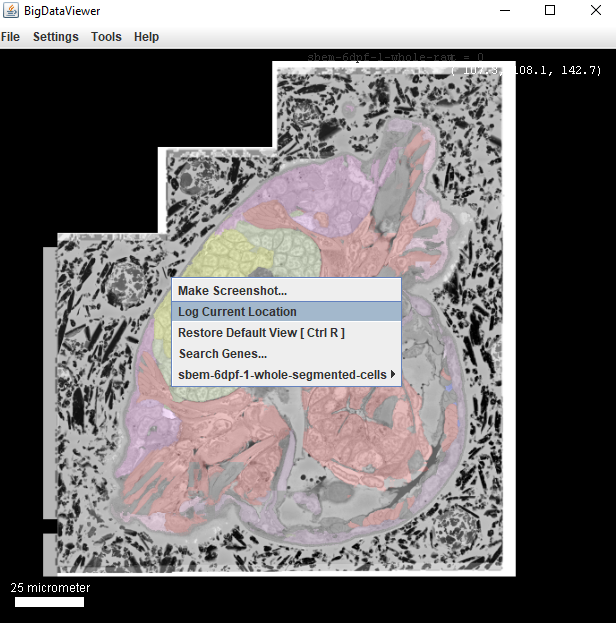
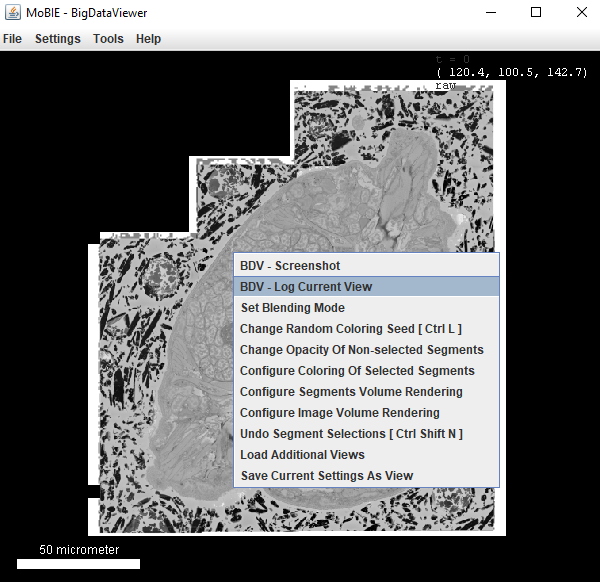
update views and locations tutorial

diff --git a/tutorials/views_and_locations.md b/tutorials/views_and_locations.md
@@ -1,57 +1,70 @@
-# Bookmarks and locations
-
-<img width="500" alt="image" src="./tutorial_images/bookmarkLocation.png"> 
+# Views and locations
 
 ## Locations
 
 The viewer (BigDataViewer) places all images within the same physical coordinate system.
 The current coordinates of your mouse are displayed in the top right corner of the window.
 
-### Saving a location
+### Saving a location / orientation
 
-To save your current location, you can right click in the viewer and select 
-**log current location**
+To save your current location and orientation, you can right click in the viewer and select
+**BDV - Log Current View**
 
-<img width="500" alt="image" src="./tutorial_images/logLocation.png"> 
+<img width="500" alt="image" src="./tutorial_images/logLocation.png">
 
 This will print a series of values to the **Log window** like so:
 ```
-Position:
-(105.89281976297173,89.52964460425457,142.70000000000002)
-View:
-2.796828718166384, 0.0, 0.0, -124.16407936069606, 0.0, 2.796828718166384, 0.0, -74.39908115640918, 0.0, 0.0, 2.796828718166384, -399.107458082343
-Normalised view:
-n0.00448209730475382,n0.0,n0.0,n-0.4746219220523975,n0.0,n0.00448209730475382,n0.0,n-0.40128057877629675,n0.0,n0.0,n0.00448209730475382,n-0.6395952853883702
+# Current view
+To restore the view, any of below lines can be pasted into the 'location' text field.
+To share views with other people we recommend 'normalizedAffine'.
+{"position":[147.8058920398392,127.96038933601736,142.7000000000002],"timepoint":0}
+{"affineTransform":[2.4773774193548403,0.0,0.0,-62.17097938709691,0.0,2.4773774193548403,0.0,-48.00617911290328,0.0,0.0,2.4773774193548403,-353.52175774193614],"timepoint":0}
+{"normalizedAffine":[0.004074633913412566,0.0,0.0,-0.6022549003077251,0.0,0.004074633913412566,0.0,-0.521391741962012,0.0,0.0,0.004074633913412566,-0.5814502594439739],"timepoint":0}
+{"normalVector":[0.0,0.0,1.0],"timepoint":0}
 ```
 
-- **Position** Location of where you clicked (x, y, z) in physical coordinates e.g. for the Platybrowser dataset, this is in micrometer
-- **View** Orientation of your view - the 12 comma separated values here, are the affine transformation of this current view
-- **Normalised View** Orientation of your view, normalised to window size.
+- **position** Location (x, y, z) in physical coordinates e.g. for the
+Platybrowser dataset, this is in micrometer
+- **affineTransform** Orientation of the viewer - the 12 comma separated values
+here, are the affine transformation of this current view
+- **normalizedAffine** Orientation of the viewer, normalised to window size.
+- **normalVector** The normal vector to the plane you are currently viewing.
 
-### Moving to a location
+### Moving to a location / orientation
 
-To move to a position, you simply copy these saved numbers (either the position, view
-or normalised view) into the **location** field and click **move**.
+To move to a position, you simply copy one of these printed lines into the **location** field and click **move**.
 
-- **Position** Using the (x, y, z) position will move your viewer to that location, but not change its current orientation
-- **View**  Using the 12 view values, will move your viewer to that location, and change the orientation to match. **Note:**
-This is dependent on the size of your viewer window i.e. if your window is not the same size as when you saved the location, the result will be different.
-- **Normalised View** Using the 12 normalised view values, will move your viewer to that location, and change the orientation to match. It is normalised to the
-size of your viewer window, and so should give very similar results independent of your current window size.
+- **position** Using the (x, y, z) position will move your viewer to that
+location, but not change its current orientation
+- **affineTransform**  Using this affine transform, will move your viewer to
+that location, and change the orientation to match. **Note:**
+This is dependent on the size of your viewer window i.e. if your window is not
+the same size as when you saved the location, the result will be different.
+- **normalizedAffine** Using the 12 normalised values, will move your viewer to
+that location, and change the orientation to match. It is normalised to the
+size of your viewer window, and so should give very similar results independent
+of your current window size.
+- **normalVector** Using this vector, will change the orientation of your viewer
+to a plane with a normal parallel to this. It will not change the position of
+the viewer, only its orientation.
 
-In general, we recommend using **Positions** (if you don't care about orientation), or **Normalised Views** (if you do).
+In general, we recommend using **position** (if you don't care about
+orientation), or **normalizedAffine** (if you do).
 
-## Bookmarks
+## Views
 
-Bookmarks are a way to save the current setup of your viewer, so anyone can browse to it
-quickly and easily. Selecting a bookmark will take you to the exact location and orientation
-saved, with the same images added to the viewer, and the same tables and colour scheme.
+Views are a way to save the current setup of your viewer, so anyone can browse
+to it quickly and easily. Selecting a view will take you to the exact location
+and orientation saved, with the same images added to the viewer, and the same
+tables, plots and colour scheme.
 
-To access a bookmark, simply select it's name from the dropdown menu and select 'view'.  
-Only a subset of bookmarks are shown in this dropdown by default. To view other bookmarks, right click
-in the mobie viewer and select **Load Additional Bookmarks**, and then Load from **Project**.
+To access a view, simply select it's name from the MoBIE dropdown menus and
+select 'view'.  Only a subset of views are shown in this dropdown by default.
+If the project contains more, you can view them by right clicking
+in the mobie viewer and selecting **Load Additional Views**, and then Load from
+**Project**.
 
-<img width="500" alt="image" src="./tutorial_images/loadAdditionalBookmarks.png"> 
+<img width="500" alt="image" src="./tutorial_images/loadAdditionalViews.png">
 
-You can also load your own bookmarks from the file system. To create your own bookmarks, see the **Viewing your own bookmarks** tutorial [here](./viewing_your_own_bookmarks.md).
-
+You can also load your own views from the file system. To create your own
+views, see the **Creating your own views** tutorial [here](./creating_your_own_views.md).
